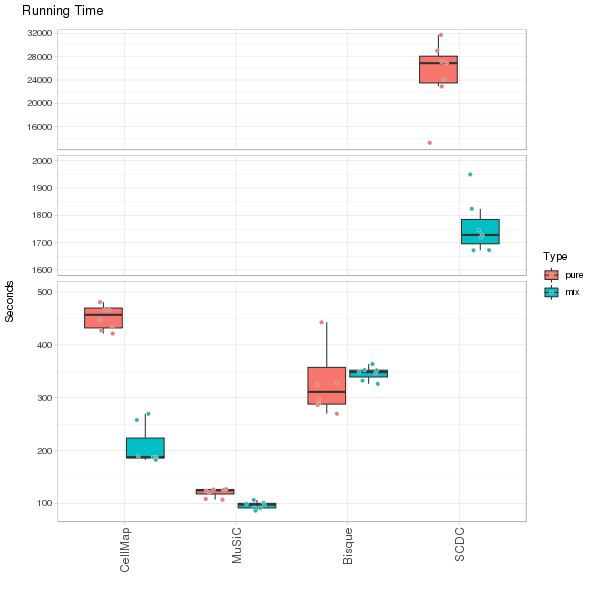
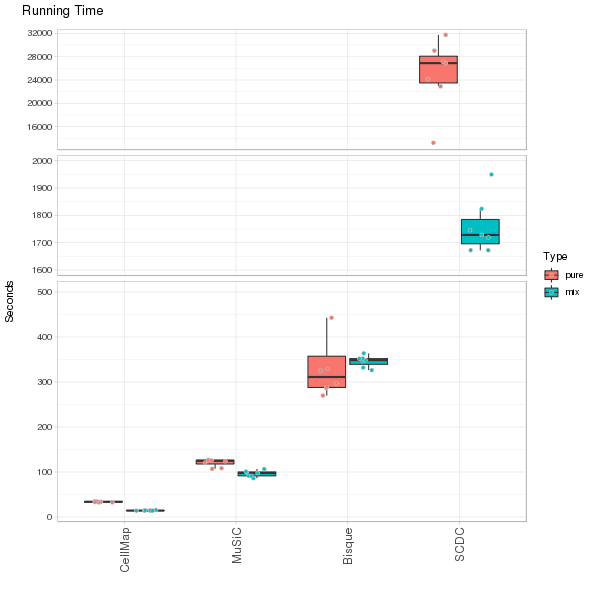
update the running time readme

diff --git a/README.md b/README.md
@@ -238,7 +238,7 @@ cellmapTraining(strData,strPrefix="~/cellmap_profile",cellTypeMap,core=16)
 ```
 
 # Running time
-The running time for deconvolute 220 *pure* samples (single cell type) and 80 *mix* samples on a 32 core cluster is demonstrated below. It only tooks around 3 minutes for 80 samples, while 7 minutes for 220 samples based on Major9 profiles. And it costs ~24 hours to generated the Major9 profiles from 17 datasets. The running time depends on the numbers of datasets, cell types, bulk samples.
+The running time for deconvolute 220 *pure* samples (single cell type) and 80 *mix* samples on a 32 core cluster is demonstrated below. It only tooks around 15 seconds for 80 samples, while 34 secondes for 220 samples based on Major9 profiles. And it costs about 24 hours to generated the Major9 profiles from 17 datasets. The running time depends on the numbers of datasets, cell types, bulk samples.
 ![](manuscript/Fig/runT.png)
 
 # Pre-build profiles
